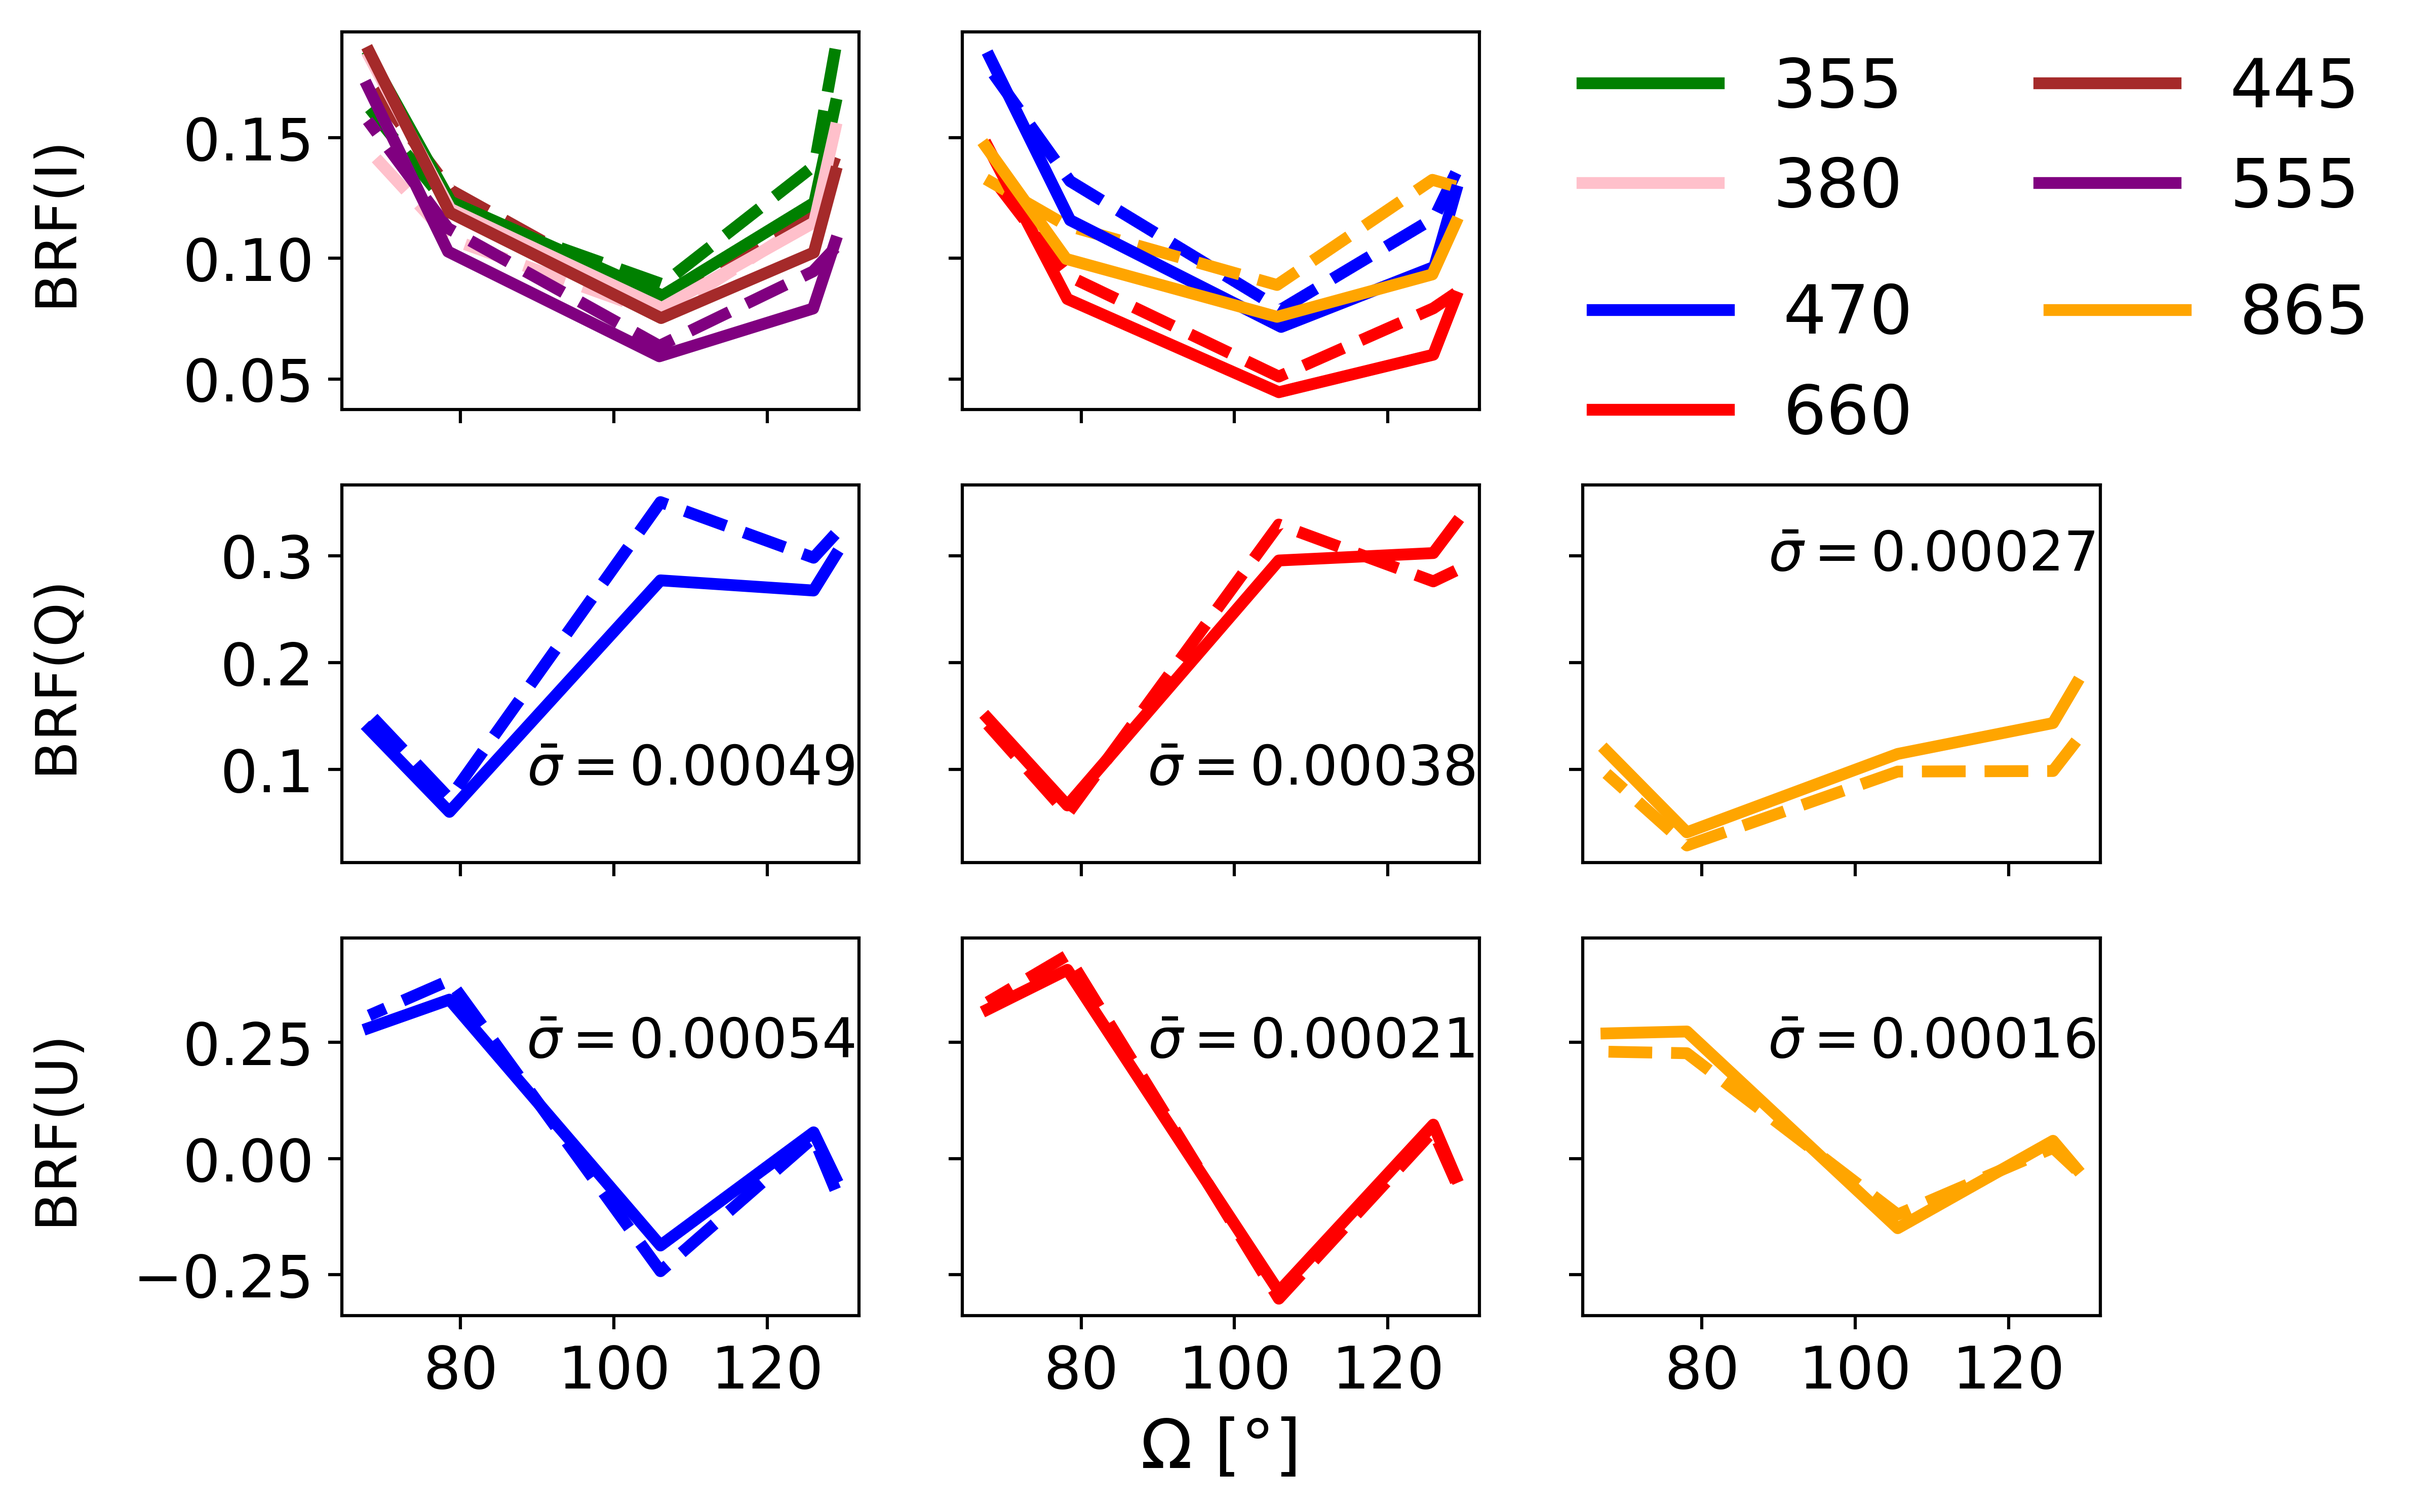
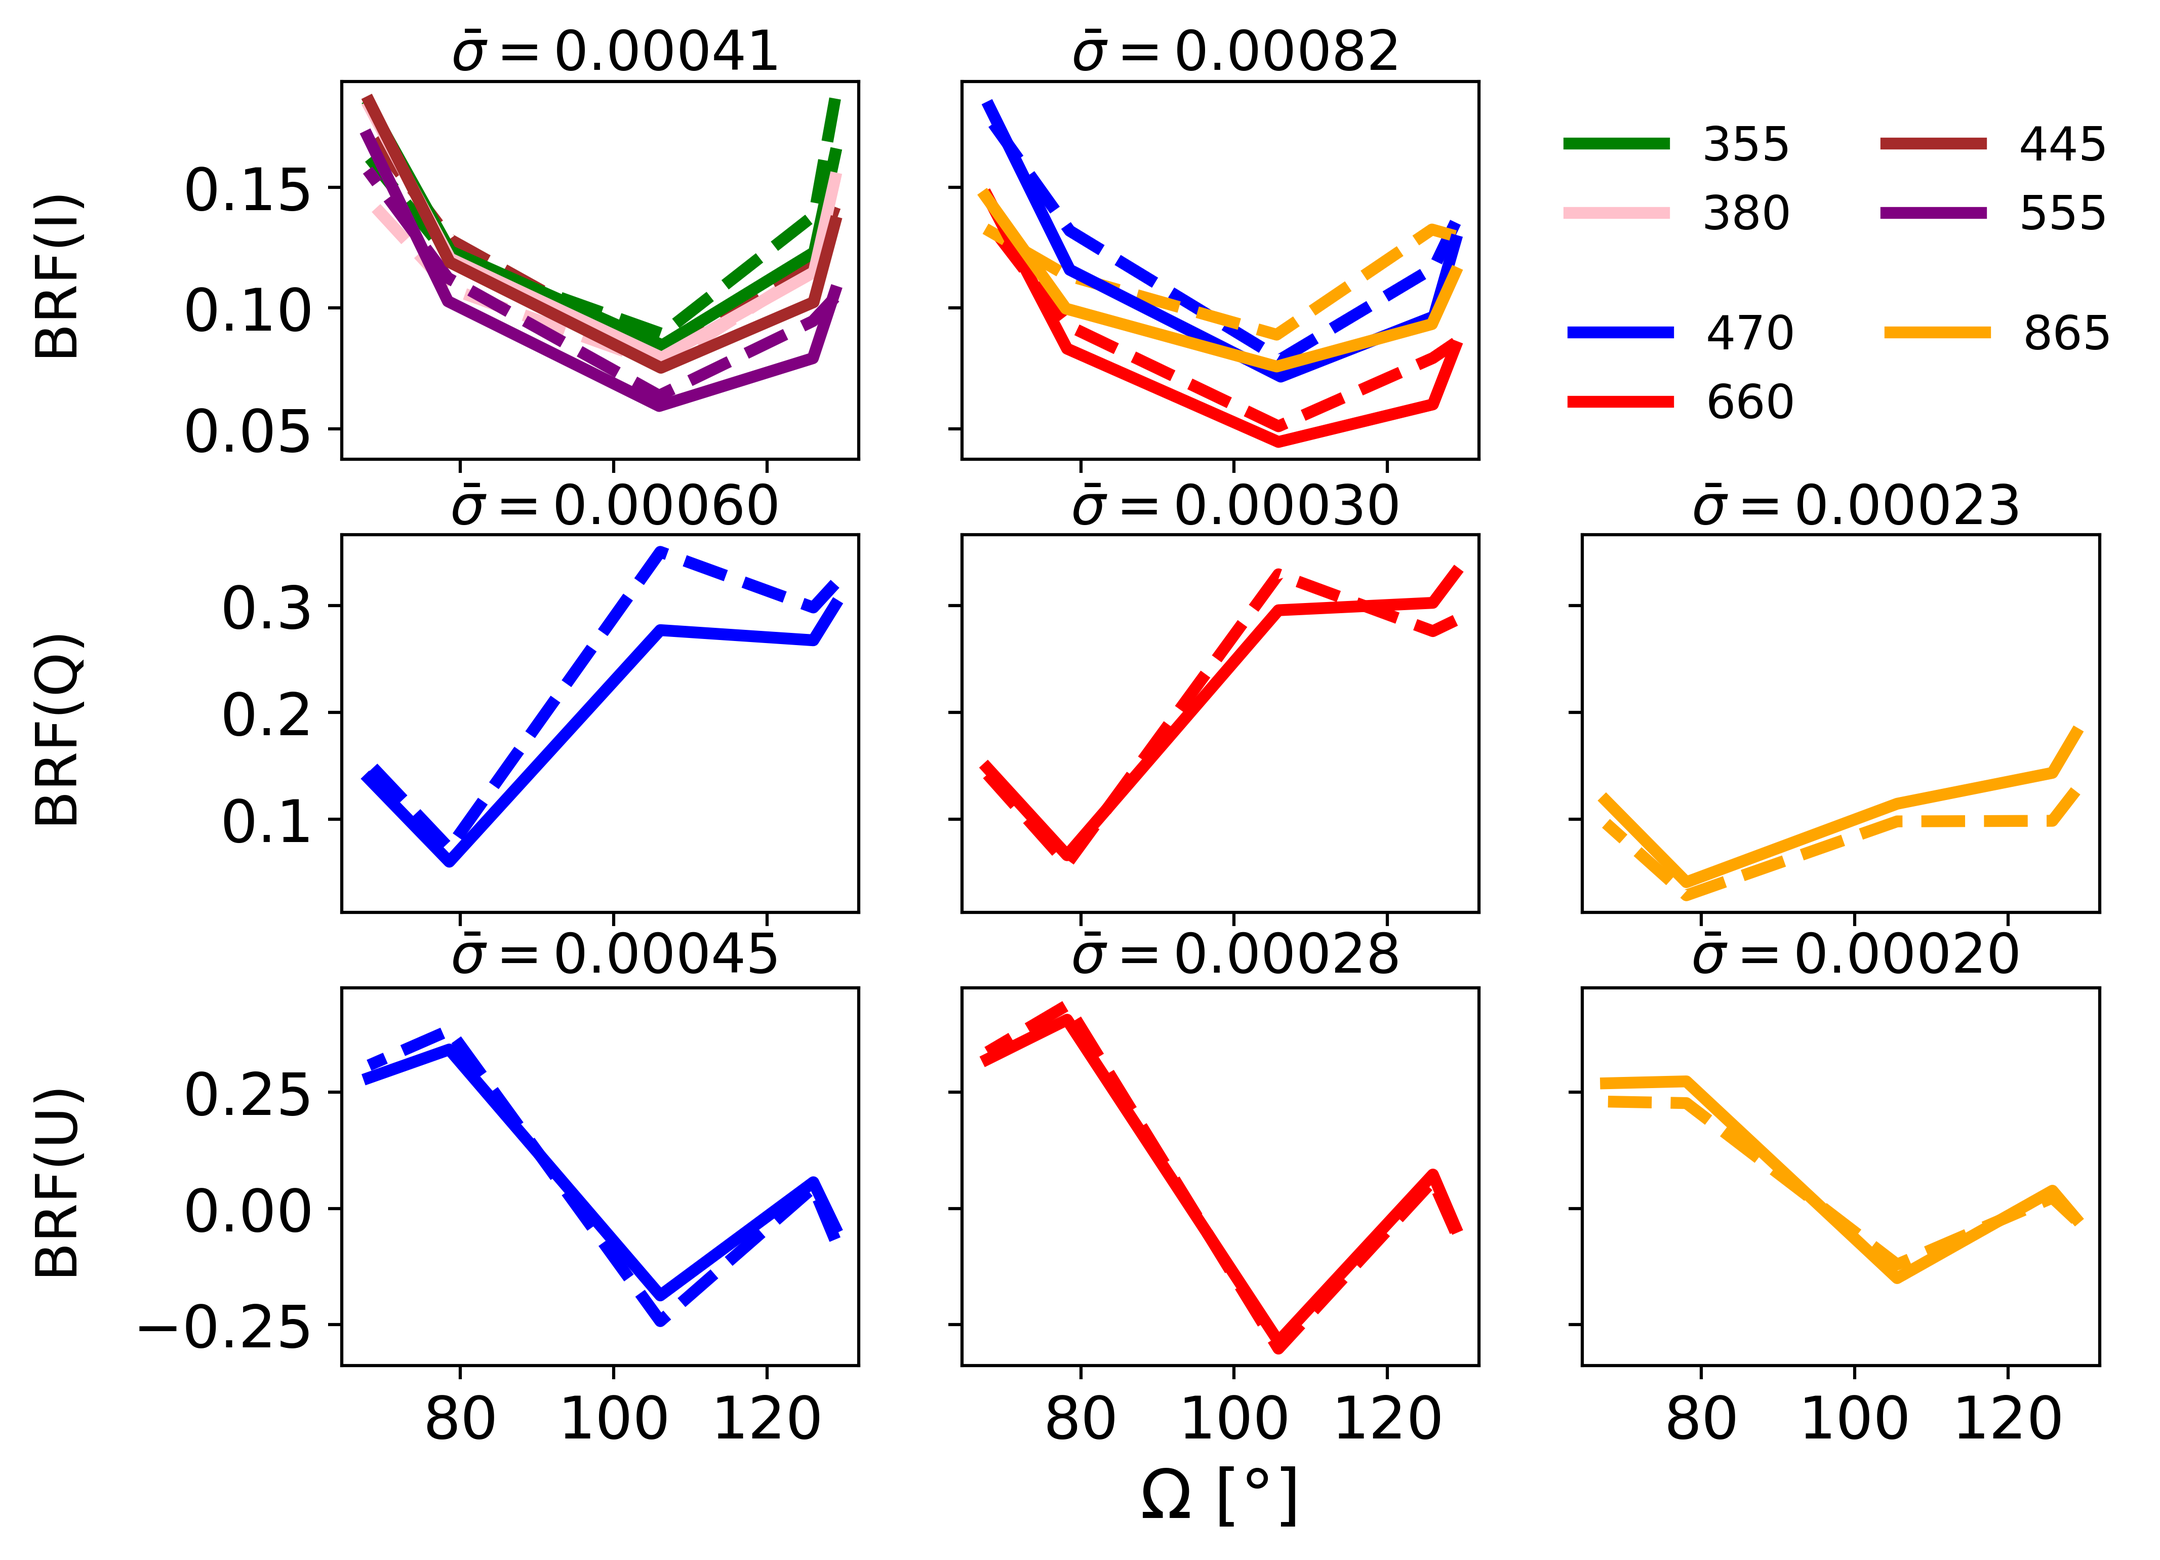
m

diff --git a/AirMSPI_FIREXAQ/QUstdplots.py b/AirMSPI_FIREXAQ/QUstdplots.py
@@ -94,7 +94,7 @@ def main():  # Main code
 # NOTE: datapath is the location of the AirMSPI HDF data files
 #       outpath is where the output should be stored
 #Work Computer
-    datapath = "C:/Users/ULTRASIP_1/Documents/Prescott817_Data/"
+    #datapath = "C:/Users/ULTRASIP_1/Documents/Prescott817_Data/"
     #datapath = "C:/Users/ULTRASIP_1/Documents/Bakersfield707_DataCopy/"
     #outpath = "C:/Users/ULTRASIP_1/Documents/ULTRASIP/AirMSPI_FIREXAQ/Retrievals/May1123/2FIREX"
     #outpath = "C:/Users/ULTRASIP_1/Documents/ULTRASIP/AirMSPI_FIREXAQ/Retrievals/Apr1823/Merd_Bakersfield"
@@ -102,8 +102,8 @@ def main():  # Main code
 
 
 # # #Home Computer 
-#     datapath = "C:/Users/Clarissa/Documents/AirMSPI/Prescott/FIREX-AQ_8172019"
-#     outpath = "C:/Users/Clarissa/Documents/GitHub/ULTRASIP/AirMSPI_FIREXAQ/Retrievals/May1423/2FIREX"
+    datapath = "C:/Users/Clarissa/Documents/AirMSPI/Prescott/FIREX-AQ_8172019"
+    outpath = "C:/Users/Clarissa/Documents/GitHub/ULTRASIP/AirMSPI_FIREXAQ/Retrievals/May1423/2FIREX"
 
 # Load in the set of measurement sequences
 # Set the length of one measurement sequence of step-and-stare observations
@@ -118,7 +118,7 @@ def main():  # Main code
 # Set the index of the sequence of step-and-stare files
 # NOTE: This is 0 for the first group in the directory, 1 for the second group, etc.
 
-    step_ind = 0
+    step_ind = 1
     
 # Set the number of wavelengths for radiometric and polarization separately
 #num_int = total number of radiometric channels
@@ -132,6 +132,8 @@ def main():  # Main code
     num_meas = 13
 
 #Measurement Arrays   
+    i_std = np.zeros((num_step,5))
+    ipol_std = np.zeros((num_step,num_pol))# U meridional    
     qs_std = np.zeros((num_step,num_pol))  # Qscattering plane
     us_std = np.zeros((num_step,num_pol))  # Uscattering plane
     qm_std = np.zeros((num_step,num_pol))  # Q meridional
@@ -407,6 +409,13 @@ def main():  # Main code
             print("***ERROR***")
             print('error')
 
+        i_355 = np.std(box_i_355[good])
+        i_380 = np.std(box_i_380[good])
+        i_445 = np.std(box_i_445[good])
+        i_470 = np.std(box_i_470[good])
+        i_555 = np.std(box_i_555[good])
+        i_660 = np.std(box_i_660[good])
+        i_865 = np.std(box_i_865[good])
         
         qs_470 = np.std(box_qs_470[good])
         qs_660 = np.std(box_qs_660[good])
@@ -426,7 +435,16 @@ def main():  # Main code
         um_660 = np.std(box_um_660[good])
         um_865 = np.std(box_um_865[good])
         
-            
+
+        i_std[loop,0] = i_355
+        i_std[loop,1] = i_380
+        i_std[loop,2] = i_445
+        i_std[loop,3] = i_555
+        
+        ipol_std[loop,0] = i_470
+        ipol_std[loop,1] = i_660
+        ipol_std[loop,2] = i_865            
+
         qs_std[loop,0] = qs_470
         qs_std[loop,1] = qs_660
         qs_std[loop,2] = qs_865
@@ -443,11 +461,11 @@ def main():  # Main code
         um_std[loop,1] = um_660
         um_std[loop,2] = um_865
         
-    return qs_std,us_std,qm_std,um_std
+    return qs_std,us_std,qm_std,um_std,ipol_std,i_std
 
 ### END MAIN FUNCTION
 if __name__ == '__main__':
-    qs,us,qm,um = main() 
+    qs,us,qm,um,ipol,i = main() 
      
 #def plotout(qs,us,qm,um):  # Main code
 
@@ -456,11 +474,11 @@ if __name__ == '__main__':
 #       figpath is where the image output should be stored
 
 
-    basepath = "C:/Users/ULTRASIP_1/Documents/ULTRASIP/AirMSPI_FIREXAQ/Retrievals/May1423/1FIREX"
-    figpath = "C:/Users/ULTRASIP_1/Documents/ULTRASIP/AirMSPI_FIREXAQ/Retrievals/May1423/1FIREX/Plots"
+    # basepath = "C:/Users/ULTRASIP_1/Documents/ULTRASIP/AirMSPI_FIREXAQ/Retrievals/May1423/1FIREX"
+    # figpath = "C:/Users/ULTRASIP_1/Documents/ULTRASIP/AirMSPI_FIREXAQ/Retrievals/May1423/1FIREX/Plots"
 
-    # basepath = "C:/Users/Clarissa/Documents/GitHub/ULTRASIP/AirMSPI_FIREXAQ/Retrievals/May1423/2FIREX"
-    # figpath = "C:/Users/Clarissa/Documents/GitHub/ULTRASIP/AirMSPI_FIREXAQ/Retrievals/May1423/2FIREX/Plots"
+    basepath = "C:/Users/Clarissa/Documents/GitHub/ULTRASIP/AirMSPI_FIREXAQ/Retrievals/May1423/2FIREX"
+    figpath = "C:/Users/Clarissa/Documents/GitHub/ULTRASIP/AirMSPI_FIREXAQ/Retrievals/May1423/2FIREX/Plots"
 
 # Set the length of a sequence of step-and-stare observations
 # NOTE: This will typically be an odd number (9,7,5,...)
@@ -1179,6 +1197,9 @@ if __name__ == '__main__':
     
     ax[0,0].set_ylabel('BRF(I)', fontsize='x-large')
     ax[0,0].yaxis.set_label_coords(-0.5, .5)
+    meanstd = np.mean(i[:,:])
+    ax[0,0].text(100, 0.25, r'$\bar{{\sigma}} = {:.5f}$'.format(meanstd), fontsize=14, ha='center', va='center')
+
 
     
     ax[0,0].plot(scat[:,0],i_mod[:,0],color="green",label="355",linewidth='3')
@@ -1195,13 +1216,14 @@ if __name__ == '__main__':
     ax[0,1].plot(scat[:,5],i_mod[:,5],color="red",label='660',linewidth='3')
     ax[0,1].plot(scat[:,6],i_mod[:,6],color="orange",label='865',linewidth='3')
     
-
+    meanstd = np.mean(ipol[:,:])
+    ax[0,1].text(100, 0.25, r'$\bar{{\sigma}} = {:.5f}$'.format(meanstd), fontsize=14, ha='center', va='center')
     ax[0,1].yaxis.set_tick_params(labelsize=15)
     
-    ax[0,0].legend(bbox_to_anchor=(4.02,1.1),
-          ncol=2,fontsize='xx-large',frameon=False)
+    ax[0,0].legend(bbox_to_anchor=(3.5,1.0),
+          ncol=2,fontsize='large',frameon=False)
     ax[0,1].legend(bbox_to_anchor=(1.1,0.5),
-          ncol=2,fontsize='xx-large',frameon=False)
+          ncol=2,fontsize='large',frameon=False)
     
     
     ax[1,0].set_ylabel('BRF(Q)', fontsize='x-large')
@@ -1210,18 +1232,18 @@ if __name__ == '__main__':
     
     ax[1,0].plot(scat[:,3],q_obs[:,0],linestyle='dashed',color="blue",label="470nm",linewidth='3')
     ax[1,0].yaxis.set_tick_params(labelsize=15)
-    meanstd = np.mean(qs[:,0])
-    ax[1,0].text(110, -0.1, r'$\bar{{\sigma}} = {:.5f}$'.format(meanstd), fontsize=14, ha='center', va='center')
+    meanstd = np.mean(qm[:,0])
+    ax[1,0].text(100, 0.39, r'$\bar{{\sigma}} = {:.5f}$'.format(meanstd), fontsize=14, ha='center', va='center')
 
     ax[1,1].plot(scat[:,5],q_obs[:,1],linestyle='dashed',color="red",label="660nm",linewidth='3')
     ax[1,1].yaxis.set_tick_params(labelsize=15)
-    meanstd = np.mean(qs[:,1])
-    ax[1,1].text(110, -0.1, r'$\bar{{\sigma}} = {:.5f}$'.format(meanstd), fontsize=14, ha='center', va='center')
+    meanstd = np.mean(qm[:,1])
+    ax[1,1].text(100, 0.39, r'$\bar{{\sigma}} = {:.5f}$'.format(meanstd), fontsize=14, ha='center', va='center')
 
     ax[1,2].plot(scat[:,6],q_obs[:,2],linestyle='dashed',color="orange",label="865nm",linewidth='3')
     ax[1,2].yaxis.set_tick_params(labelsize=15)
-    meanstd = np.mean(qs[:,2])
-    ax[1,2].text(95, 0.3, r'$\bar{{\sigma}} = {:.5f}$'.format(meanstd), fontsize=14, ha='center', va='center')
+    meanstd = np.mean(qm[:,2])
+    ax[1,2].text(100, 0.39, r'$\bar{{\sigma}} = {:.5f}$'.format(meanstd), fontsize=14, ha='center', va='center')
 
     
     ax[1,0].plot(scat[:,3],q_mod[:,0],color="blue",linewidth='3')
@@ -1234,20 +1256,20 @@ if __name__ == '__main__':
     ax[2,0].yaxis.set_label_coords(-0.5, .5)
     
     ax[2,0].plot(scat[:,3],u_obs[:,0],linestyle='dashed',color="blue",label="470nm",linewidth='3')
-    meanstd = np.mean(us[:,0])
-    ax[2,0].text(110, 0.44, r'$\bar{{\sigma}} = {:.5f}$'.format(meanstd), fontsize=14, ha='center', va='center')
+    meanstd = np.mean(um[:,0])
+    ax[2,0].text(100, 0.54, r'$\bar{{\sigma}} = {:.5f}$'.format(meanstd), fontsize=14, ha='center', va='center')
 
     ax[2,0].yaxis.set_tick_params(labelsize=15)
 
     ax[2,1].plot(scat[:,5],u_obs[:,1],linestyle='dashed',color="red",label="660nm",linewidth='3')
-    meanstd = np.mean(us[:,1])
-    ax[2,1].text(110, 0.44, r'$\bar{{\sigma}} = {:.5f}$'.format(meanstd), fontsize=14, ha='center', va='center')
+    meanstd = np.mean(um[:,1])
+    ax[2,1].text(100, 0.54, r'$\bar{{\sigma}} = {:.5f}$'.format(meanstd), fontsize=14, ha='center', va='center')
 
     ax[2,1].yaxis.set_tick_params(labelsize=15)
 
     ax[2,2].plot(scat[:,6],u_obs[:,2],linestyle='dashed',color="orange",label="865nm",linewidth='3')
-    meanstd = np.mean(us[:,2])
-    ax[2,2].text(110, 0.44, r'$\bar{{\sigma}} = {:.5f}$'.format(meanstd), fontsize=14, ha='center', va='center')
+    meanstd = np.mean(um[:,2])
+    ax[2,2].text(100, 0.54, r'$\bar{{\sigma}} = {:.5f}$'.format(meanstd), fontsize=14, ha='center', va='center')
     
     ax[2,2].yaxis.set_tick_params(labelsize=15)
 
@@ -1265,8 +1287,6 @@ if __name__ == '__main__':
     plt.show()
     
 
-
-np.mean(qs[:,1])
 
 
 

diff --git a/AirMSPI_FIREXAQ/DataFormat_working.py b/AirMSPI_FIREXAQ/DataFormat_working.py
@@ -133,8 +133,8 @@ def main():  # Main code
 
 
 # #Home Computer 
-    datapath = "C:/Users/Clarissa/Documents/AirMSPI/Prescott/FIREX-AQ_8172019"
-    outpath = "C:/Users/Clarissa/Documents/GitHub/ULTRASIP/AirMSPI_FIREXAQ/Retrievals/May1423/1FIREX"
+    datapath = "C:/Users/Clarissa/Documents/AirMSPI/Bakersfield707_Data"
+    outpath = "C:/Users/Clarissa/Documents/GitHub/ULTRASIP/AirMSPI_FIREXAQ/Retrievals/May1423/Bakersfield"
 
 # Load in the set of measurement sequences
 # Set the length of one measurement sequence of step-and-stare observations
@@ -831,13 +831,13 @@ def main():  # Main code
         raz_median[loop,11] = raz_865
         raz_median[loop,12] = raz_865
 
-        q_median[loop,0] = -eqr_qg_470
-        q_median[loop,1] = -eqr_qg_660
-        q_median[loop,2] = -eqr_qg_865
+        q_median[loop,0] = eqr_qg_470
+        q_median[loop,1] = eqr_qg_660
+        q_median[loop,2] = eqr_qg_865
     
-        u_median[loop,0] = -eqr_ug_470
-        u_median[loop,1] = -eqr_ug_660
-        u_median[loop,2] = -eqr_ug_865
+        u_median[loop,0] = eqr_ug_470
+        u_median[loop,1] = eqr_ug_660
+        u_median[loop,2] = eqr_ug_865
           
         
         sza_median[loop] = sza
@@ -856,7 +856,7 @@ def main():  # Main code
 # Generate the base output file name
     #outfile_base = "AirMSPI_"+this_date_str+"_"+this_time_str+"_"
     #outfile_base = outfile_base+this_target_str+"_"
-    outfile_base = 'RotfromScat'
+    outfile_base = 'RotfromMerd'
 
 # Get the software version number to help track issues
     hold = os.path.basename(__file__)
